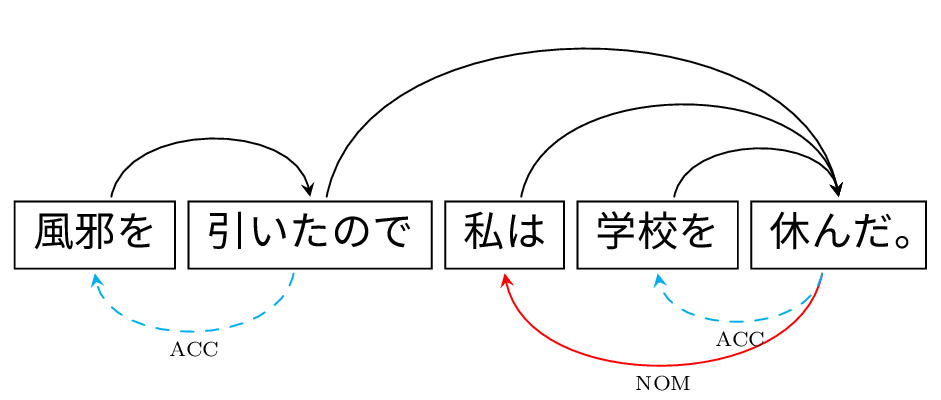
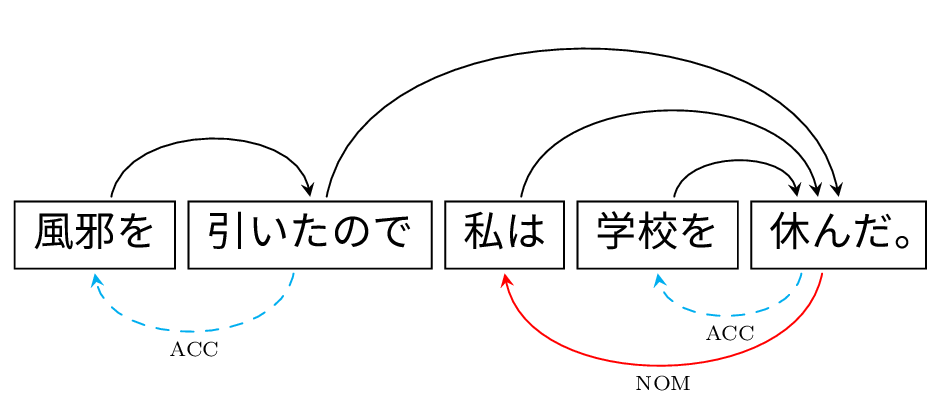
Try to automatically adjust offsets to avoid overlapping edges.

diff --git a/PASdia.py b/PASdia.py
@@ -88,7 +88,9 @@ def sentence_to_pas(sent):
 
 def pas_edges(pD, aD, pLst):
   cD = {'ga': ('red', 'NOM'), 'o': ('cyan, dashed', 'ACC'), 'ni': ('teal', 'DAT')}
-  edges = []
+  edges = ["\n"]
+  soffset = 0
+  eoffset = 0
   for (i, t) in six.iteritems(pD):
         for (k, (c, l)) in six.iteritems(cD):
            for j in t.split(' '):
@@ -98,16 +100,31 @@ def pas_edges(pD, aD, pLst):
                        cid = convID(pLst, sid)
                        pid = convID(pLst, i)
                        if cid != pid:
-                           edges += '\n\depedge[style={%s}, edge below, label style={rounded corners=0, draw=black, top color=cyan, bottom color=cyan, text=black, below}]{%s}{%s}{%s}' % (c, pid, cid, l)
+                           if any(pid in edge[-12:-8] for edge in edges if len(edge) > 1):
+                               if int(pid) - int(cid) > 1:
+                                   soffset += 5
+                               else:
+                                   soffset -= 5
+                           if any(cid in edge[-9:-5] for edge in edges if len(edge) > 1):
+                               eoffset -= 5
+                           edges.append('\n\depedge[style={%s}, edge start x offset=%spt, edge end x offset=%spt, edge below, label style={rounded corners=0, draw=black, top color=cyan, bottom color=cyan, text=black, below}]{%s}{%s}{%s}' % (c, str(soffset), str(eoffset), pid, cid, l))
   ej = ''.join(edges)
   if ej != None:
     return ej
 
-def wrap_depedge(h, m):
-    return '\depedge[edge style={black}]{%d}{%d}{}' % (int(h)+1, int(m)+1)
+def wrap_depedge(h, m, offset):
+    return '\depedge[edge style={black}, edge end x offset=%s]{%d}{%d}{}' % (offset, int(h)+1, int(m)+1)
 
 def wrap_depedges(sent):
-    return '\n'.join([wrap_depedge(seg.id, seg.head) for seg in sent if not seg.is_root()])
+    depedges = []
+    offset = 0
+    for seg in sent:
+        if len(depedges) > 0:
+            if any(str(int(seg.head)+1) in edge[-5:] for edge in depedges):
+                offset -= 5
+        if not seg.is_root():
+            depedges.append(wrap_depedge(seg.id, seg.head, str(offset)))
+    return '\n'.join(depedges)
 
 def read_deptree(f):
   sentences = []
